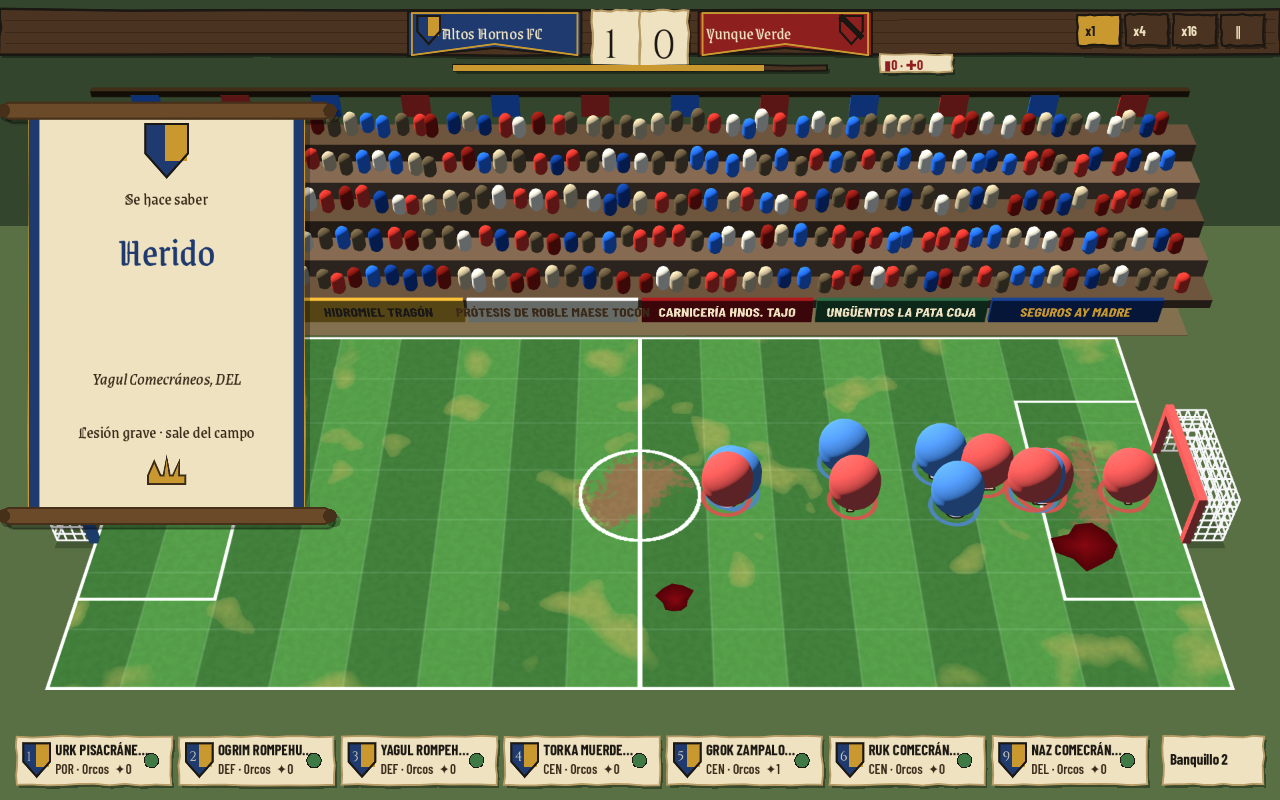
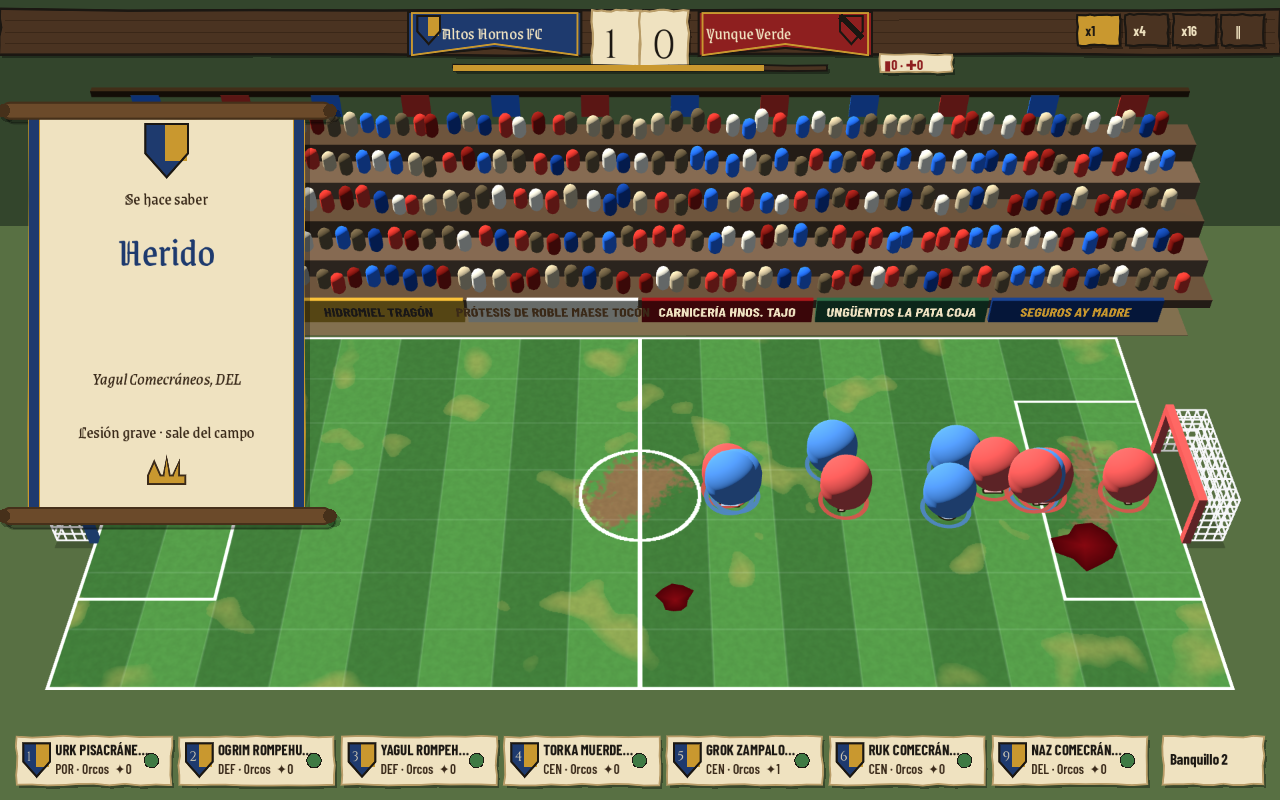
feat(game): la maqueta usa las animaciones que el pack sí tiene — RT-014
El pack «Standard» de Quaternius NO trae correr, ni caerse, ni golpear un balón: es
una biblioteca genérica de aventura. De sus 43 animaciones se enganchan las cuatro
que encajan, leyendo el estado que la simulación ya publica por jugador y por
fotograma (MatchTrace.StateAt) — el modelo no decide nada (RT-014):

- entrando  -> Slide_Start, una barrida. Es literalmente una entrada de fútbol y no
              hay que inventarse nada.
- derribado -> Hit_Knockback y, cuando su propio reloj termina, LayToIdle congelado
  o lesionado  en el primer fotograma: el cuerpo en el suelo. Lo más cercano a una
              caída que existe en el pack, y encadenado sin temporizador aparte.
- celebrando -> Idle_Rail_Call, brazo en alto.
- disparar y pasar se quedan SIN animación a propósito: no hay ningún golpeo, y un
  puñetazo puesto donde va una patada se lee peor que la locomoción.

El expulsado deja de tumbarse (la cápsula lo tumbaba): se va andando, que es lo que
hace un expulsado.

Captura nueva retrans-modelos-derribo.png, que busca el primer fotograma con un
humano en el suelo y avanza el reloj lo justo para ver el encadenado empujón ->
cuerpo tumbado. Sin mirarla no se puede decir que el derribo se ve bien.

Y lo que la captura enseña, que es el valor de la maqueta: Walk_Carry es «andar
cargando algo» y los jugadores se mueven ENCORVADOS. Con este pack la locomoción es
un marcador de posición, no una animación de fútbol.
[…]

Changed region(s): [[0.625, 0.5312, 0.8438, 0.6562], [0.5312, 0.5312, 0.5938, 0.6562]]

diff --git a/Game/Ui/PlayerModel.cs b/Game/Ui/PlayerModel.cs
@@ -1,5 +1,6 @@
 using System;
 using Godot;
+using Underleague.Sim.Engine;
 
 namespace Underleague.Game.Ui;
 
@@ -15,10 +16,22 @@ namespace Underleague.Game.Ui;
 /// la vista —anillo, dorsal, sangre, cortinilla de teletransporte, cámara— tenga que enterarse. A la
 /// cápsula se le quita la malla y se queda como el <i>hueso</i> que la transforma.</para>
 ///
-/// <para><b>Lo que la maqueta NO hace</b>, y conviene saberlo antes de mirarla: no hay animación de golpeo
-/// ni de entrada —la biblioteca es genérica y no trae fútbol—, el color de equipo se pinta encima del
-/// maniquí (pierde su propia textura, que es gris de todos modos) y por eso <b>no le llega la atenuación
-/// del corte de teletransporte</b>, que sigue viviendo en el material de la cápsula.</para>
+/// <para><b>Qué animación tiene cada cosa</b>, con lo que el pack da de sí —es una biblioteca genérica de
+/// aventura y <b>no trae fútbol</b>: ni carrera, ni caída, ni golpeo de balón—:</para>
+/// <list type="bullet">
+/// <item>quieto → <c>Idle_FoldArms</c> · andando → <c>Walk_Carry</c>, acelerado con la velocidad real de
+/// la traza, que es la <b>carrera fingida</b> mientras no haya una de verdad;</item>
+/// <item>entrando → <c>Slide_Start</c>, una barrida, que es literalmente una entrada de fútbol;</item>
+/// <item>derribado o lesionado → <c>Hit_Knockback</c> y, cuando acaba, <c>LayToIdle</c> congelado en su
+/// primer fotograma, el cuerpo en el suelo. Es lo más cercano a caerse que hay;</item>
+/// <item>celebrando → <c>Idle_Rail_Call</c>, brazo en alto;</item>
+/// <item><b>disparar y pasar se quedan sin animación</b>: no hay ningún golpeo en el pack y un puñetazo
+/// puesto donde va una patada se lee peor que la locomoción. Es el hueco que pide un clip de verdad.</item>
+/// </list>
+///
+/// <para>El color de equipo se pinta encima del maniquí (pierde su propia textura, que es gris de todos
+/// modos). Y el pack trae además un juego <c>Zombie_*</c> completo —paso y espera— que es un regalo para
+/// los no-muertos el día que la maqueta pase de los humanos.</para>
 /// </summary>
 public sealed partial class PlayerModel : Node3D
 {
@@ -40,11 +53,27 @@ public sealed partial class PlayerModel : Node3D
     private const string WalkAnimation = "Walk_Carry";
 
     /// <summary>
-    /// Derribado. Se congela en su <b>primer</b> fotograma, que es el cuerpo en el suelo: la animación va
+    /// Ya en el suelo. Se congela en su <b>primer</b> fotograma, que es el cuerpo tumbado: la animación va
     /// de tumbado a de pie, así que su inicio es exactamente la postura que hace falta y no hay que
     /// adivinar dónde acaba un derribo.
     /// </summary>
     private const string DownAnimation = "LayToIdle";
+
+    /// <summary>
+    /// El derribo en sí: sale despedido. Es lo más cercano a «caerse» que trae el pack —no hay ninguna
+    /// caída— y encadena bien con <see cref="DownAnimation"/>, que recoge el cuerpo cuando termina.
+    /// </summary>
+    private const string KnockbackAnimation = "Hit_Knockback";
+
+    /// <summary>
+    /// La entrada: una <b>barrida</b>. Es la que mejor encaja de las 43 y no hace falta inventarse nada
+    /// —una entrada de fútbol es literalmente esto—; el pack la trae porque es un deslizamiento de
+    /// aventura.
+    /// </summary>
+    private const string TackleAnimation = "Slide_Start";
+
+    /// <summary>Celebrar: el gesto de llamada del pack, brazo en alto. No hay una celebración propiamente dicha.</summary>
+    private const string CelebrateAnimation = "Idle_Rail_Call";
 
     /// <summary>Por debajo de esto se considera quieto (casillas por segundo).</summary>
     private const float MovingThreshold = 0.15f;
@@ -148,23 +177,10 @@ public sealed partial class PlayerModel : Node3D
     /// fotogramas de la traza, en casillas por segundo: <b>el modelo no decide nada</b>, solo mira lo que
     /// la simulación ya escribió (RT-014).
     /// </summary>
-    public void Pose(Vector2 velocity, bool down)
+    public void Pose(Vector2 velocity, PlayerState state)
     {
         if (_anim is null)
         {
-            return;
-        }
-
-        if (down)
-        {
-            if (_playing != DownAnimation)
-            {
-                _playing = DownAnimation;
-                _anim.Play(DownAnimation);
-                _anim.Seek(0d, update: true);
-                _anim.Pause();
-            }
-
             return;
         }
 
@@ -172,11 +188,60 @@ public sealed partial class PlayerModel : Node3D
         if (speed > MovingThreshold)
         {
             // Mirar hacia donde se va. Solo cuando hay movimiento de verdad: con el jugador parado, el
-            // ruido de la interpolación le haría girar sobre sí mismo.
+            // ruido de la interpolación le haría girar sobre sí mismo. Se hace antes de elegir la postura
+            // para que también la barrida y el derribo salgan orientados.
             _facing = Mathf.Atan2(velocity.X, velocity.Y) + FacingOffset;
             Rotation = new Vector3(0f, _facing, 0f);
         }
 
+        // Lo que el jugador ESTÁ haciendo manda sobre si se mueve o no: la simulación ya lo dice por
+        // jugador y por fotograma (`MatchTrace.StateAt`), así que el modelo no tiene que adivinarlo ni
+        // decidir nada (RT-014).
+        switch (state)
+        {
+            case PlayerState.KnockedDown:
+            case PlayerState.Injured:
+                // Dos tiempos: sale despedido y después se queda en el suelo. El encadenado se hace por
+                // el reloj de la propia animación, no por un temporizador aparte.
+                if (_playing == KnockbackAnimation)
+                {
+                    if (!_anim.IsPlaying())
+                    {
+                        Hold(DownAnimation);
+                    }
+                }
+                else if (_playing != DownAnimation)
+                {
+                    _playing = KnockbackAnimation;
+                    _anim.SpeedScale = 1f;
+                    _anim.Play(KnockbackAnimation);
+                }
+
+                return;
+
+            case PlayerState.Tackling:
+                if (_playing != TackleAnimation)
+                {
+                    _playing = TackleAnimation;
+                    _anim.SpeedScale = 1f;
+                    _anim.Play(TackleAnimation);
+                }
+
+                return;
+
+            case PlayerState.Celebrating:
+                if (_playing != CelebrateAnimation)
+                {
+                    _playing = CelebrateAnimation;
+                    _anim.SpeedScale = 1f;
+                    _anim.Play(CelebrateAnimation);
+                }
+
+                return;
+        }
+
+        // Disparar y pasar NO tienen animación: el pack no trae ningún golpeo de balón (ver el resumen de
+        // la clase). Se quedan con la locomoción, que es mejor que un puñetazo puesto donde va una patada.
         string wanted = speed > MovingThreshold ? WalkAnimation : IdleAnimation;
         if (_playing != wanted)
         {
@@ -187,6 +252,16 @@ public sealed partial class PlayerModel : Node3D
         _anim.SpeedScale = wanted == WalkAnimation
             ? Mathf.Clamp(speed / WalkReferenceSpeed, 0.5f, 2.5f)
             : 1f;
+    }
+
+    /// <summary>Congela una animación en su primer fotograma: la postura, sin el movimiento.</summary>
+    private void Hold(string name)
+    {
+        _playing = name;
+        _anim!.SpeedScale = 1f;
+        _anim.Play(name);
+        _anim.Seek(0d, update: true);
+        _anim.Pause();
     }
 
     /// <summary>El <see cref="AnimationPlayer"/> esté donde esté en el árbol importado: el importador de glTF no garantiza dónde lo cuelga.</summary>

diff --git a/Game/Screens/BroadcastCapture.cs b/Game/Screens/BroadcastCapture.cs
@@ -421,6 +421,43 @@ public partial class BroadcastCapture : Control
                 StepManual(humanScreen, 1.0 / 60.0, 6);
                 await Save("retrans-modelos");
                 GD.Print($"retrans-modelos: club humano; balón a {peak:0.###} casillas de alto en el fotograma {peakFrame} de {humanTrace.FrameCount}");
+
+                // Y un cuerpo en el suelo, que es la postura que más importa en este juego: el primer
+                // fotograma en que un humano está derribado o lesionado. Sin mirarla no se puede decir que
+                // el derribo "se ve bien" — con la cápsula era un giro de noventa grados y con modelo es
+                // una animación que puede quedarse a medias o atravesar el césped.
+                int downFrame = -1;
+                for (int f = 0; f < humanTrace.FrameCount && downFrame < 0; f++)
+                {
+                    for (int p = 0; p < humanTrace.Players.Count; p++)
+                    {
+                        if (humanTrace.Players[p].Team != 0 || !humanTrace.OnPitchAt(f, p))
+                        {
+                            continue;
+                        }
+
+                        var st = humanTrace.StateAt(f, p);
+                        if (st is Sim.Engine.PlayerState.KnockedDown or Sim.Engine.PlayerState.Injured)
+                        {
+                            downFrame = f;
+                            break;
+                        }
+                    }
+                }
+
+                if (downFrame >= 0)
+                {
+                    // Unos fotogramas después del derribo: el tiempo que tarda el empujón en dar paso al
+                    // cuerpo tumbado, que es el encadenado que hay que comprobar.
+                    humanScreen.SeekTo(downFrame);
+                    StepManual(humanScreen, 1.0 / 60.0, 45);
+                    await Save("retrans-modelos-derribo");
+                    GD.Print($"retrans-modelos-derribo: humano en el suelo desde el fotograma {downFrame}");
+                }
+                else
+                {
+                    GD.Print("retrans-modelos-derribo: ningún humano acaba en el suelo en este partido; se salta");
+                }
             }
 
             Drop(humanInstance);

diff --git a/Game/Ui/MatchPitchView3D.cs b/Game/Ui/MatchPitchView3D.cs
@@ -1452,7 +1452,7 @@ public partial class MatchPitchView3D : SubViewportContainer
                 step = Vector2.Zero;
             }
 
-            model.Pose(step * TicksPerSecond, down);
+            model.Pose(step * TicksPerSecond, trace.StateAt(frame, i));
         }
 
         var ball = InterpolateBall(trace, frame);
